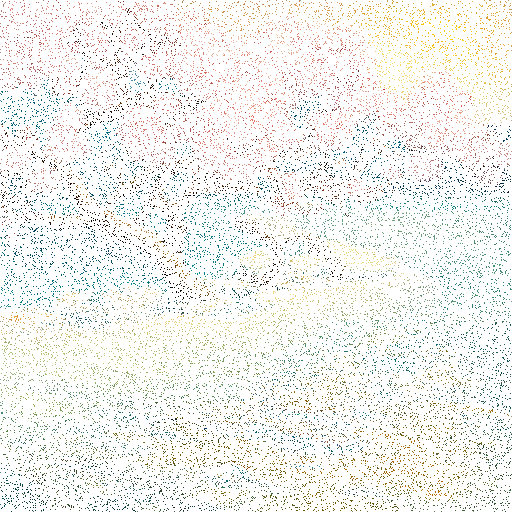
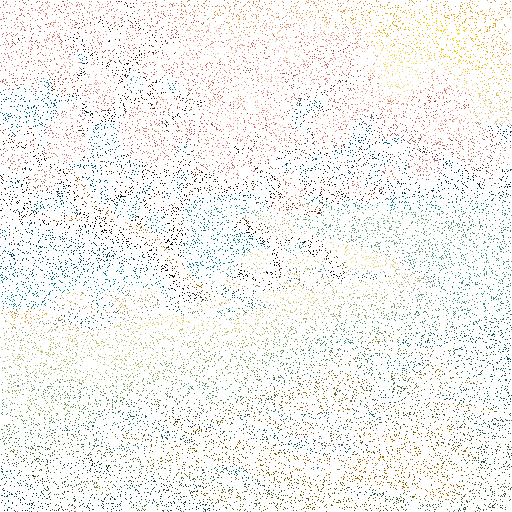
improve efficiency, support 3d

Changed region(s): [[0.0, 0.0, 1.0, 1.0]]

diff --git a/grid_put/grid_put.py b/grid_put/grid_put.py
@@ -28,6 +28,32 @@ def scatter_add_nd(input, indices, values):
     return input.view(*size, C)
 
 
+def scatter_add_nd_with_count(input, count, indices, values, weights=None):
+    # input: [..., C], D dimension + C channel
+    # count: [..., 1], D dimension
+    # indices: [N, D], long
+    # values: [N, C]
+
+    D = indices.shape[-1]
+    C = input.shape[-1]
+    size = input.shape[:-1]
+    stride = stride_from_shape(size)
+
+    assert len(size) == D
+
+    input = input.view(-1, C)  # [HW, C]
+    count = count.view(-1, 1)
+
+    flatten_indices = (indices * torch.tensor(stride, dtype=torch.long, device=indices.device)).sum(-1)  # [N]
+
+    if weights is None:
+        weights = torch.ones_like(values[..., :1]) 
+
+    input.scatter_add_(0, flatten_indices.unsqueeze(1).repeat(1, C), values)
+    count.scatter_add_(0, flatten_indices.unsqueeze(1), weights)
+
+    return input.view(*size, C), count.view(*size, 1)
+
 def nearest_grid_put_2d(H, W, coords, values, return_count=False):
     # coords: [N, 2], float in [-1, 1]
     # values: [N, C]
@@ -41,9 +67,9 @@ def nearest_grid_put_2d(H, W, coords, values, return_count=False):
 
     result = torch.zeros(H, W, C, device=values.device, dtype=values.dtype)  # [H, W, C]
     count = torch.zeros(H, W, 1, device=values.device, dtype=values.dtype)  # [H, W, 1]
-    ones = torch.ones_like(values[..., :1])  # [N, 1]
-    result = scatter_add_nd(result, indices, values)
-    count = scatter_add_nd(count, indices, ones)
+    weights = torch.ones_like(values[..., :1])  # [N, 1]
+    
+    result, count = scatter_add_nd_with_count(result, count, indices, values, weights)
 
     if return_count:
         return result, count
@@ -54,7 +80,7 @@ def nearest_grid_put_2d(H, W, coords, values, return_count=False):
     return result
 
 
-def bilinear_grid_put_2d(H, W, coords, values, return_count=False):
+def linear_grid_put_2d(H, W, coords, values, return_count=False):
     # coords: [N, 2], float in [-1, 1]
     # values: [N, C]
 
@@ -64,8 +90,8 @@ def bilinear_grid_put_2d(H, W, coords, values, return_count=False):
         [H - 1, W - 1], dtype=torch.float32, device=coords.device
     )
     indices_00 = indices.floor().long()  # [N, 2]
-    indices_00[:, 0].clamp_(max=H - 2)
-    indices_00[:, 1].clamp_(max=W - 2)
+    indices_00[:, 0].clamp_(0, H - 2)
+    indices_00[:, 1].clamp_(0, W - 2)
     indices_01 = indices_00 + torch.tensor(
         [0, 1], dtype=torch.long, device=indices.device
     )
@@ -85,15 +111,12 @@ def bilinear_grid_put_2d(H, W, coords, values, return_count=False):
 
     result = torch.zeros(H, W, C, device=values.device, dtype=values.dtype)  # [H, W, C]
     count = torch.zeros(H, W, 1, device=values.device, dtype=values.dtype)  # [H, W, 1]
-    ones = torch.ones_like(values[..., :1])  # [N, 1]
-    result = scatter_add_nd(result, indices_00, values * w_00.unsqueeze(1))
-    count = scatter_add_nd(count, indices_00, ones * w_00.unsqueeze(1))
-    result = scatter_add_nd(result, indices_01, values * w_01.unsqueeze(1))
-    count = scatter_add_nd(count, indices_01, ones * w_01.unsqueeze(1))
-    result = scatter_add_nd(result, indices_10, values * w_10.unsqueeze(1))
-    count = scatter_add_nd(count, indices_10, ones * w_10.unsqueeze(1))
-    result = scatter_add_nd(result, indices_11, values * w_11.unsqueeze(1))
-    count = scatter_add_nd(count, indices_11, ones * w_11.unsqueeze(1))
+    weights = torch.ones_like(values[..., :1])  # [N, 1]
+    
+    result, count = scatter_add_nd_with_count(result, count, indices_00, values * w_00.unsqueeze(1), weights* w_00.unsqueeze(1))
+    result, count = scatter_add_nd_with_count(result, count, indices_01, values * w_01.unsqueeze(1), weights* w_01.unsqueeze(1))
+    result, count = scatter_add_nd_with_count(result, count, indices_10, values * w_10.unsqueeze(1), weights* w_10.unsqueeze(1))
+    result, count = scatter_add_nd_with_count(result, count, indices_11, values * w_11.unsqueeze(1), weights* w_11.unsqueeze(1))
 
     if return_count:
         return result, count
@@ -103,8 +126,7 @@ def bilinear_grid_put_2d(H, W, coords, values, return_count=False):
 
     return result
 
-
-def mipmap_bilinear_grid_put_2d(H, W, coords, values, min_resolution=32, return_count=False):
+def mipmap_linear_grid_put_2d(H, W, coords, values, min_resolution=32, return_count=False):
     # coords: [N, 2], float in [-1, 1]
     # values: [N, C]
 
@@ -122,7 +144,7 @@ def mipmap_bilinear_grid_put_2d(H, W, coords, values, min_resolution=32, return_
         if not mask.any():
             break
 
-        cur_result, cur_count = bilinear_grid_put_2d(cur_H, cur_W, coords, values, return_count=True)
+        cur_result, cur_count = linear_grid_put_2d(cur_H, cur_W, coords, values, return_count=True)
         result[mask] = result[mask] + F.interpolate(cur_result.permute(2,0,1).unsqueeze(0).contiguous(), (H, W), mode='bilinear', align_corners=False).squeeze(0).permute(1,2,0).contiguous()[mask]
         count[mask] = count[mask] + F.interpolate(cur_count.view(1, 1, cur_H, cur_W), (H, W), mode='bilinear', align_corners=False).view(H, W, 1)[mask]
         cur_H //= 2
@@ -136,20 +158,143 @@ def mipmap_bilinear_grid_put_2d(H, W, coords, values, min_resolution=32, return_
 
     return result
 
+def nearest_grid_put_3d(H, W, D, coords, values, return_count=False):
+    # coords: [N, 3], float in [-1, 1]
+    # values: [N, C]
 
-def grid_put(shape, coords, values, mode='bilinear-mipmap', min_resolution=32, return_raw=False):
+    C = values.shape[-1]
+
+    indices = (coords * 0.5 + 0.5) * torch.tensor(
+        [H - 1, W - 1, D - 1], dtype=torch.float32, device=coords.device
+    )
+    indices = indices.round().long()  # [N, 2]
+
+    result = torch.zeros(H, W, D, C, device=values.device, dtype=values.dtype)  # [H, W, C]
+    count = torch.zeros(H, W, D, 1, device=values.device, dtype=values.dtype)  # [H, W, 1]
+    weights = torch.ones_like(values[..., :1])  # [N, 1]
+
+    result, count = scatter_add_nd_with_count(result, count, indices, values, weights)
+    
+    if return_count:
+        return result, count
+
+    mask = (count.squeeze(-1) > 0)
+    result[mask] = result[mask] / count[mask].repeat(1, C)
+
+    return result
+
+
+def linear_grid_put_3d(H, W, D, coords, values, return_count=False):
+    # coords: [N, 3], float in [-1, 1]
+    # values: [N, C]
+
+    C = values.shape[-1]
+
+    indices = (coords * 0.5 + 0.5) * torch.tensor(
+        [H - 1, W - 1, D - 1], dtype=torch.float32, device=coords.device
+    )
+    indices_000 = indices.floor().long()  # [N, 3]
+    indices_000[:, 0].clamp_(0, H - 2)
+    indices_000[:, 1].clamp_(0, W - 2)
+    indices_000[:, 2].clamp_(0, D - 2)
+
+    indices_001 = indices_000 + torch.tensor([0, 0, 1], dtype=torch.long, device=indices.device)
+    indices_010 = indices_000 + torch.tensor([0, 1, 0], dtype=torch.long, device=indices.device)
+    indices_011 = indices_000 + torch.tensor([0, 1, 1], dtype=torch.long, device=indices.device)
+    indices_100 = indices_000 + torch.tensor([1, 0, 0], dtype=torch.long, device=indices.device)
+    indices_101 = indices_000 + torch.tensor([1, 0, 1], dtype=torch.long, device=indices.device)
+    indices_110 = indices_000 + torch.tensor([1, 1, 0], dtype=torch.long, device=indices.device)
+    indices_111 = indices_000 + torch.tensor([1, 1, 1], dtype=torch.long, device=indices.device)
+
+    h = indices[..., 0] - indices_000[..., 0].float()
+    w = indices[..., 1] - indices_000[..., 1].float()
+    d = indices[..., 2] - indices_000[..., 2].float()
+    
+    w_000 = (1 - h) * (1 - w) * (1 - d)
+    w_001 = (1 - h) * w * (1 - d)
+    w_010 = h * (1 - w) * (1 - d)
+    w_011 = h * w * (1 - d)
+    w_100 = (1 - h) * (1 - w) * d
+    w_101 = (1 - h) * w * d
+    w_110 = h * (1 - w) * d
+    w_111 = h * w * d
+
+    result = torch.zeros(H, W, D, C, device=values.device, dtype=values.dtype)  # [H, W, D, C]
+    count = torch.zeros(H, W, D, 1, device=values.device, dtype=values.dtype)  # [H, W, D, 1]
+    weights = torch.ones_like(values[..., :1])  # [N, 1]
+    
+    result, count = scatter_add_nd_with_count(result, count, indices_000, values * w_000.unsqueeze(1), weights * w_000.unsqueeze(1))
+    result, count = scatter_add_nd_with_count(result, count, indices_001, values * w_001.unsqueeze(1), weights * w_001.unsqueeze(1))
+    result, count = scatter_add_nd_with_count(result, count, indices_010, values * w_010.unsqueeze(1), weights * w_010.unsqueeze(1))
+    result, count = scatter_add_nd_with_count(result, count, indices_011, values * w_011.unsqueeze(1), weights * w_011.unsqueeze(1))
+    result, count = scatter_add_nd_with_count(result, count, indices_100, values * w_100.unsqueeze(1), weights * w_100.unsqueeze(1))
+    result, count = scatter_add_nd_with_count(result, count, indices_101, values * w_101.unsqueeze(1), weights * w_101.unsqueeze(1))
+    result, count = scatter_add_nd_with_count(result, count, indices_110, values * w_110.unsqueeze(1), weights * w_110.unsqueeze(1))
+    result, count = scatter_add_nd_with_count(result, count, indices_111, values * w_111.unsqueeze(1), weights * w_111.unsqueeze(1))
+
+    if return_count:
+        return result, count
+
+    mask = (count.squeeze(-1) > 0)
+    result[mask] = result[mask] / count[mask].repeat(1, C)
+
+    return result
+
+def mipmap_linear_grid_put_3d(H, W, D, coords, values, min_resolution=32, return_count=False):
+    # coords: [N, 3], float in [-1, 1]
+    # values: [N, C]
+
+    C = values.shape[-1]
+
+    result = torch.zeros(H, W, D, C, device=values.device, dtype=values.dtype)  # [H, W, D, C]
+    count = torch.zeros(H, W, D, 1, device=values.device, dtype=values.dtype)  # [H, W, D, 1]
+    cur_H, cur_W, cur_D = H, W, D
+    
+    while min(min(cur_H, cur_W), cur_D) > min_resolution:
+
+        # try to fill the holes
+        mask = (count.squeeze(-1) == 0)
+        if not mask.any():
+            break
+
+        cur_result, cur_count = linear_grid_put_3d(cur_H, cur_W, cur_D, coords, values, return_count=True)
+        result[mask] = result[mask] + F.interpolate(cur_result.permute(3,0,1,2).unsqueeze(0).contiguous(), (H, W, D), mode='trilinear', align_corners=False).squeeze(0).permute(1,2,3,0).contiguous()[mask]
+        count[mask] = count[mask] + F.interpolate(cur_count.view(1, 1, cur_H, cur_W, cur_D), (H, W, D), mode='trilinear', align_corners=False).view(H, W, D, 1)[mask]
+        cur_H //= 2
+        cur_W //= 2
+        cur_D //= 2
+    
+    if return_count:
+        return result, count
+
+    mask = (count.squeeze(-1) > 0)
+    result[mask] = result[mask] / count[mask].repeat(1, C)
+
+    return result
+
+
+def grid_put(shape, coords, values, mode='linear-mipmap', min_resolution=32, return_raw=False):
     # shape: [D], list/tuple
     # coords: [N, D], float in [-1, 1]
     # values: [N, C]
 
     D = len(shape)
-    assert D == 2, f'only support D == 2, but got D == {D}'
+    assert D in [2, 3], f'only support D == 2 or 3, but got D == {D}'
 
     if mode == 'nearest':
-        return nearest_grid_put_2d(*shape, coords, values, return_raw)
-    elif mode == 'bilinear':
-        return bilinear_grid_put_2d(*shape, coords, values, return_raw)
-    elif mode == 'bilinear-mipmap':
-        return mipmap_bilinear_grid_put_2d(*shape, coords, values, min_resolution, return_raw)
+        if D == 2:
+            return nearest_grid_put_2d(*shape, coords, values, return_raw)
+        else:
+            return nearest_grid_put_3d(*shape, coords, values, return_raw)
+    elif mode == 'linear':
+        if D == 2:
+            return linear_grid_put_2d(*shape, coords, values, return_raw)
+        else:
+            return linear_grid_put_3d(*shape, coords, values, return_raw)
+    elif mode == 'linear-mipmap':
+        if D == 2:
+            return mipmap_linear_grid_put_2d(*shape, coords, values, min_resolution, return_raw)
+        else:
+            return mipmap_linear_grid_put_3d(*shape, coords, values, min_resolution, return_raw)
     else:
-        raise NotImplementedError(f"got mode {mode}")
+        raise NotImplementedError(f"got mode {mode}")    

diff --git a/test.py b/test.py
@@ -36,6 +36,6 @@ values = (
 )
 
 # grid put
-for mode in ['nearest', 'bilinear', 'bilinear-mipmap']:
+for mode in ['nearest', 'linear', 'linear-mipmap']:
     out = grid_put((H, W), coords, values, mode=mode)
     kiui.write_image(f"assets/out_{mode}_{args.ratio}_{args.mode}.png", out)

diff --git a/readme.md b/readme.md
@@ -21,12 +21,13 @@ pip install .
 ```python
 from grid_put import grid_put
 
+# only support 2D and 3D grid, we take 2D as an example:
 H, W # target grid shape
 coords # [N, 2], float grid coords in [-1, 1]
 values # [N, C], values to put into grid
 
-# mode: nearest, bilinear, bilinear-mipmap (default)
-out = grid_put((H, W), coords, values, mode='bilinear-mipmap') # [H, W, C]
+# mode: nearest, linear, linear-mipmap (default)
+out = grid_put((H, W), coords, values, mode='linear-mipmap') # [H, W, C]
 ```
 
 ### Examples
@@ -36,9 +37,9 @@ out = grid_put((H, W), coords, values, mode='bilinear-mipmap') # [H, W, C]
 python test.py --mode <random|grid> --ratio <float>
 ```
 
-|mode-ratio | nearest | bilinear | bilinear-mipmap |
+|mode-ratio | nearest | linear | linear-mipmap |
 |:-:|:-:|:-:|:-:|
-|grid-10%|![](assets/out_nearest_0.1_grid.png)  |  ![](assets/out_bilinear_0.1_grid.png) | ![](assets/out_bilinear-mipmap_0.1_grid.png) |
-|grid-90%|![](assets/out_nearest_0.9_grid.png)  |  ![](assets/out_bilinear_0.9_grid.png) | ![](assets/out_bilinear-mipmap_0.9_grid.png) |
-|random-10%|![](assets/out_nearest_0.1_random.png)  |  ![](assets/out_bilinear_0.1_random.png) | ![](assets/out_bilinear-mipmap_0.1_random.png) |
-|random-90%|![](assets/out_nearest_0.9_random.png)  |  ![](assets/out_bilinear_0.9_random.png) | ![](assets/out_bilinear-mipmap_0.9_random.png) |
+|grid-10%|![](assets/out_nearest_0.1_grid.png)  |  ![](assets/out_linear_0.1_grid.png) | ![](assets/out_linear-mipmap_0.1_grid.png) |
+|grid-90%|![](assets/out_nearest_0.9_grid.png)  |  ![](assets/out_linear_0.9_grid.png) | ![](assets/out_linear-mipmap_0.9_grid.png) |
+|random-10%|![](assets/out_nearest_0.1_random.png)  |  ![](assets/out_linear_0.1_random.png) | ![](assets/out_linear-mipmap_0.1_random.png) |
+|random-90%|![](assets/out_nearest_0.9_random.png)  |  ![](assets/out_linear_0.9_random.png) | ![](assets/out_linear-mipmap_0.9_random.png) |
